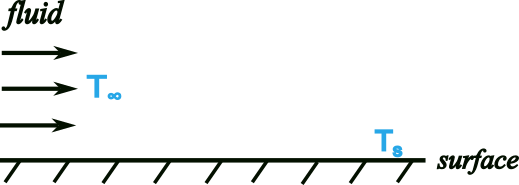
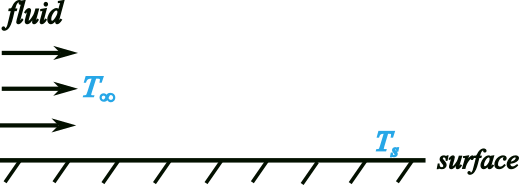
fixed schematic text and sizing for 2.34

Changed region(s): [[0.1541, 0.3784, 0.2466, 0.5676], [0.7091, 0.7838, 0.8015, 0.8649], [0.7091, 0.6757, 0.7707, 0.7568]]

diff --git a/me200/2.34-eq.html b/me200/2.34-eq.html
@@ -45,7 +45,7 @@
 
     .top-grid{display:grid;gap:12px}
     @media(min-width:1024px){.top-grid{grid-template-columns:1.2fr 0.9fr}}
-    .schem{min-height:160px;border:1px solid var(--line);border-radius:12px;background:#fafcff;
+    .schem{min-height:260px;border:1px solid var(--line);border-radius:12px;background:#fafcff;
            display:flex;align-items:center;justify-content:center;overflow:hidden;padding:8px}
 
     .inline{display:flex;align-items:center;gap:8px;flex-wrap:wrap}
@@ -116,7 +116,7 @@
       <div class="ctl" style="position:sticky;top:20px">
         <h2 style="margin:4px 0 8px;font-size:1.25rem">Schematic</h2>
         <div class="schem" aria-label="Convection heat transfer schematic">
-          <img src="../assets/me200/2.34-eq.png" alt="Convection heat transfer schematic" style="max-height:300px;width:auto;" />
+          <img src="../assets/me200/2.34-eq.png" alt="Convection heat transfer schematic" style="max-height:260px; width:100%; object-fit:contain" />
         </div>
       </div>
     </div>